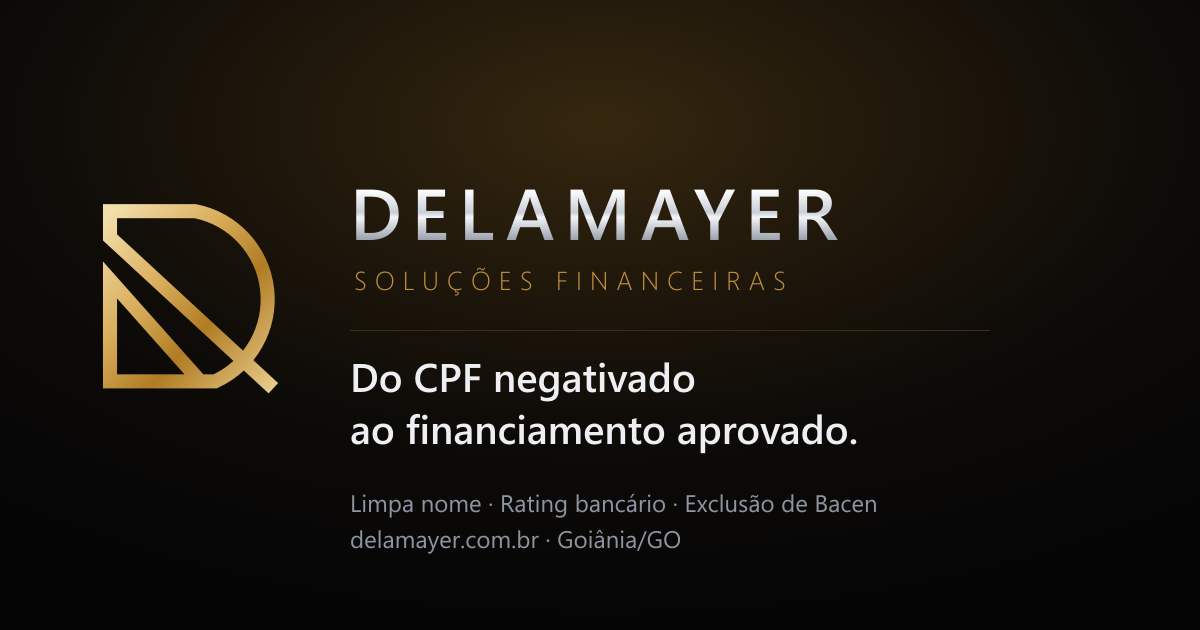
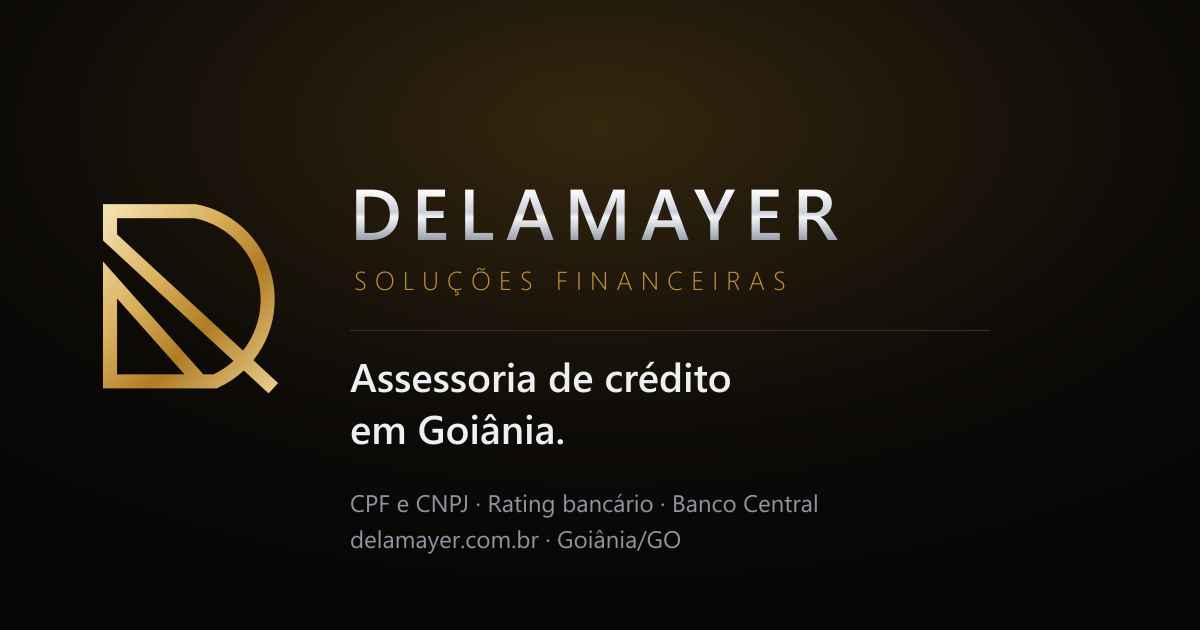
Prévia de link neutra e frases sem tom de promessa
O Instagram restringiu links da conta pela regra de práticas comerciais
proibidas, que veda prometer remover informação de crédito ou garantir
aprovação. A prévia do site dizia "do CPF negativado ao financiamento
aprovado" e os cartões, "é tirar o nome do Serasa".

- og:title, og:description e a imagem da home: "Assessoria de crédito em Goiânia"
- Cartões de limpa nome e Bacen: sai "tirar o nome"/"limpar o nome", fica "quem decide é o juiz"

Changed region(s): [[0.2775, 0.573, 0.7092, 0.7238], [0.2775, 0.7841, 0.74, 0.8143]]

diff --git a/index.html b/index.html
@@ -9,7 +9,7 @@
     <title>Limpa nome, rating de crédito bancário e Bacen em Goiânia · Delamayer</title>
     <meta
       name="description"
-      content="Limpa nome por ação judicial com pedido de liminar, destravamento do rating de crédito bancário e exclusão de registro no Banco Central. Assessoria de crédito em Goiânia, com consulta do CPF na hora pelo WhatsApp."
+      content="Assessoria de crédito em Goiânia: leitura do CPF e do CNPJ, rating de crédito bancário, registro no Banco Central e limpa nome por ação judicial, com pedido de liminar que o juiz decide. Atendimento pelo WhatsApp."
     />
     <link rel="canonical" href="https://delamayer.com.br/" />
     <meta name="author" content="Delamayer Soluções Financeiras" />
@@ -23,24 +23,24 @@
     <meta property="og:type" content="website" />
     <meta property="og:site_name" content="Delamayer Soluções Financeiras" />
     <meta property="og:locale" content="pt_BR" />
-    <meta property="og:title" content="Delamayer · Do CPF travado à chave do apartamento" />
+    <meta property="og:title" content="Delamayer · Assessoria de crédito em Goiânia" />
     <meta
       property="og:description"
-      content="Limpa nome e exclusão de Bacen pela via judicial, e destravamento do rating de crédito bancário, em Goiânia. A gente não apaga dívida nem promete decisão de juiz — mostra onde está a trava e age onde dá."
+      content="Assessoria de crédito em Goiânia. A gente lê o que consta no seu CPF, explica o que trava o crédito e diz qual caminho cabe no seu caso. Não apaga dívida nem promete decisão de juiz."
     />
     <meta property="og:url" content="https://delamayer.com.br/" />
     <meta property="og:image" content="https://delamayer.com.br/og.png" />
     <meta property="og:image:width" content="1200" />
     <meta property="og:image:height" content="630" />
-    <meta property="og:image:alt" content="Delamayer Soluções Financeiras — do CPF travado à chave do apartamento" />
+    <meta property="og:image:alt" content="Delamayer Soluções Financeiras · Assessoria de crédito em Goiânia" />
     <meta name="twitter:card" content="summary_large_image" />
-    <meta name="twitter:title" content="Delamayer · Do CPF travado à chave do apartamento" />
+    <meta name="twitter:title" content="Delamayer · Assessoria de crédito em Goiânia" />
     <meta
       name="twitter:description"
-      content="Limpa nome, rating de crédito bancário e exclusão de Bacen, em Goiânia."
+      content="Assessoria de crédito em Goiânia: CPF, rating de crédito bancário e Banco Central."
     />
     <meta name="twitter:image" content="https://delamayer.com.br/og.png" />
-    <meta name="twitter:image:alt" content="Delamayer Soluções Financeiras — do CPF travado à chave do apartamento" />
+    <meta name="twitter:image:alt" content="Delamayer Soluções Financeiras · Assessoria de crédito em Goiânia" />
 
     <!-- Ícones -->
     <link rel="icon" href="/favicon.svg" type="image/svg+xml" />

diff --git a/src/lib/business.ts b/src/lib/business.ts
@@ -206,13 +206,13 @@ export const SERVICES: Service[] = [
     id: 'limpa-nome',
     name: 'Limpa nome',
     curto: 'Limpa nome',
-    resumo: 'Não é quitação: a negativação sai por decisão judicial.',
+    resumo: 'Não é quitação: é um pedido ao juiz.',
     description:
       'É realizado por ação judicial, com pedido de liminar fundamentado nos artigos ' +
       '42 e 43 do Código de Defesa do Consumidor. Após o deferimento, o juiz expede ' +
       'ordem aos órgãos de proteção ao crédito para baixarem, ou seja, arquivarem, os ' +
-      'débitos apontados no CPF ou no CNPJ. É tirar o nome do Serasa, do SPC e da Boa ' +
-      'Vista pela via judicial, sem quitar a dívida. Quem decide é o juiz.',
+      'débitos apontados no CPF ou no CNPJ. A dívida não é quitada nem apagada, e quem ' +
+      'decide é o juiz.',
     entrega: [
       'Leitura do caso antes de qualquer processo existir',
       'Ação com pedido de liminar, fundamentada nos artigos 42 e 43 do CDC',
@@ -255,8 +255,7 @@ export const SERVICES: Service[] = [
       'Assim como o limpa nome, a exclusão de registros no Bacen, o Banco Central, é realizada ' +
       'por ação judicial, com pedido de liminar. O Bacen mantém o SCR, onde as instituições ' +
       'registram as operações de crédito e o que está em atraso: esse registro não aparece na ' +
-      'consulta do Serasa, mas é lido em toda análise de crédito. É o caminho para limpar o ' +
-      'nome no Banco Central.',
+      'consulta do Serasa, mas é lido em toda análise de crédito. Quem decide é o juiz.',
     entrega: [
       'Leitura do Registrato, operação por operação',
       'Identificação do que está registrado sem lastro',

diff --git a/src/lib/routes.ts b/src/lib/routes.ts
@@ -42,9 +42,9 @@ export const ROUTES: Route[] = [
     label: 'Início',
     title: 'Limpa nome, rating de crédito bancário e Bacen em Goiânia · Delamayer',
     description:
-      'Limpa nome por ação judicial com pedido de liminar, destravamento do rating de crédito bancário e exclusão de registro no Banco Central. Assessoria de crédito em Goiânia, com atendimento e consulta do CPF pelo WhatsApp.',
-    ogLinhas: ['Do CPF negativado', 'ao financiamento aprovado.'],
-    ogNota: 'Limpa nome · Rating bancário · Exclusão de Bacen',
+      'Assessoria de crédito em Goiânia: leitura do CPF e do CNPJ, rating de crédito bancário, registro no Banco Central e limpa nome por ação judicial, com pedido de liminar que o juiz decide. Atendimento pelo WhatsApp.',
+    ogLinhas: ['Assessoria de crédito', 'em Goiânia.'],
+    ogNota: 'CPF e CNPJ · Rating bancário · Banco Central',
   },
   {
     path: '/diagnostico',
